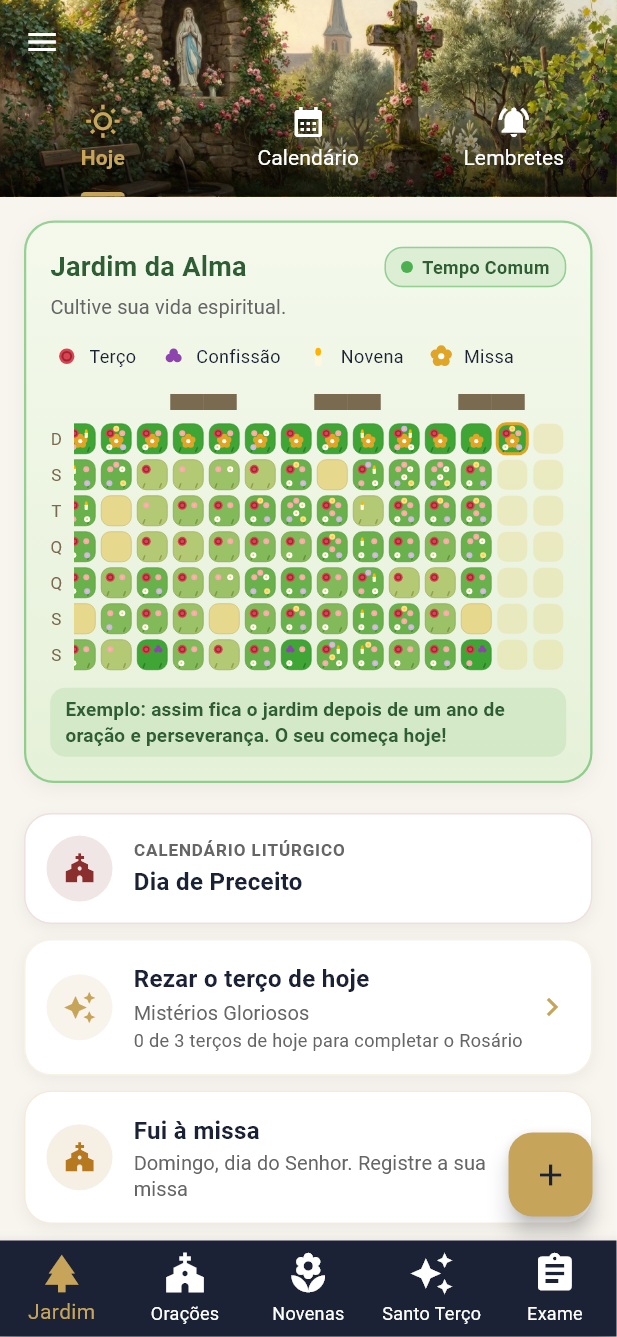
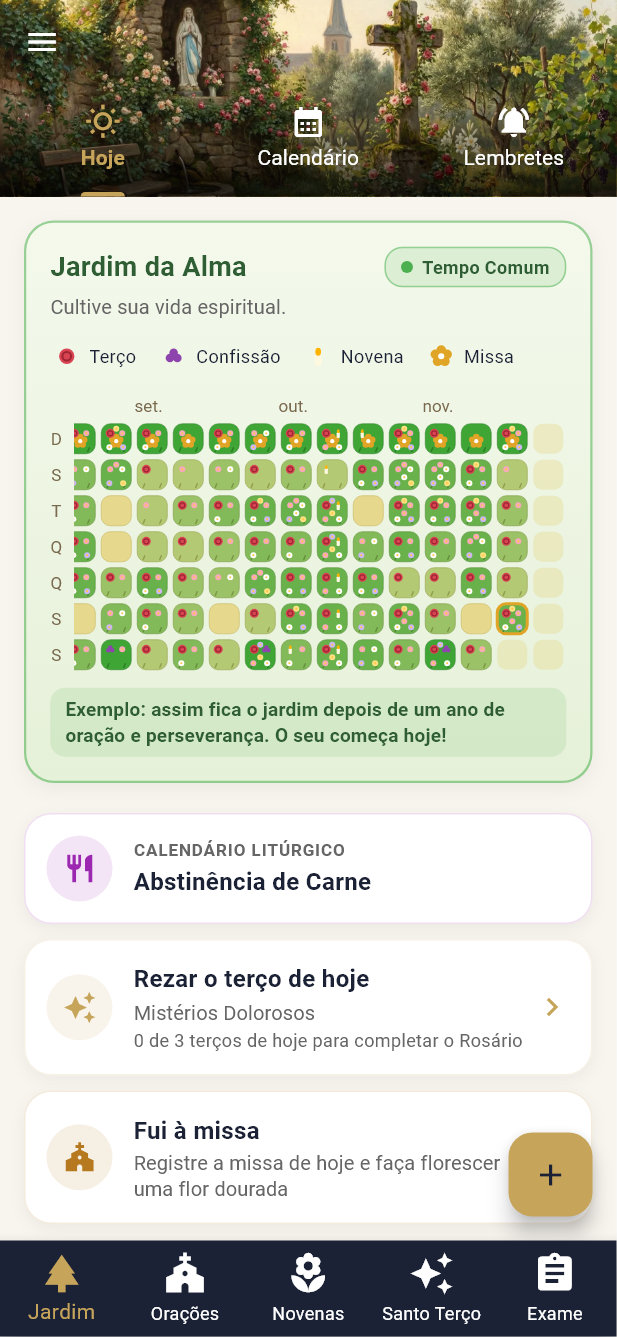
Jardim: nomes dos meses com a fonte do app; capturas de tela atualizadas

diff --git a/lib/pages/plano_vida/widgets/garden_heatmap.dart b/lib/pages/plano_vida/widgets/garden_heatmap.dart
@@ -234,7 +234,8 @@ class _GardenHeatmapState extends State<GardenHeatmap> {
     final seasonColor = LiturgicalCalendar.getSeasonColor(season);
     final seasonName = LiturgicalCalendar.getSeasonName(l10n, season);
 
-    const monthStyle = TextStyle(fontSize: 11, color: Color(0xFF7A6A4F));
+    // herda a fonte do app (o TextPainter do desenho não herda sozinho)
+    final monthStyle = DefaultTextStyle.of(context).style.copyWith(fontSize: 11, color: const Color(0xFF7A6A4F));
 
     return RepaintBoundary(
       child: Container(
